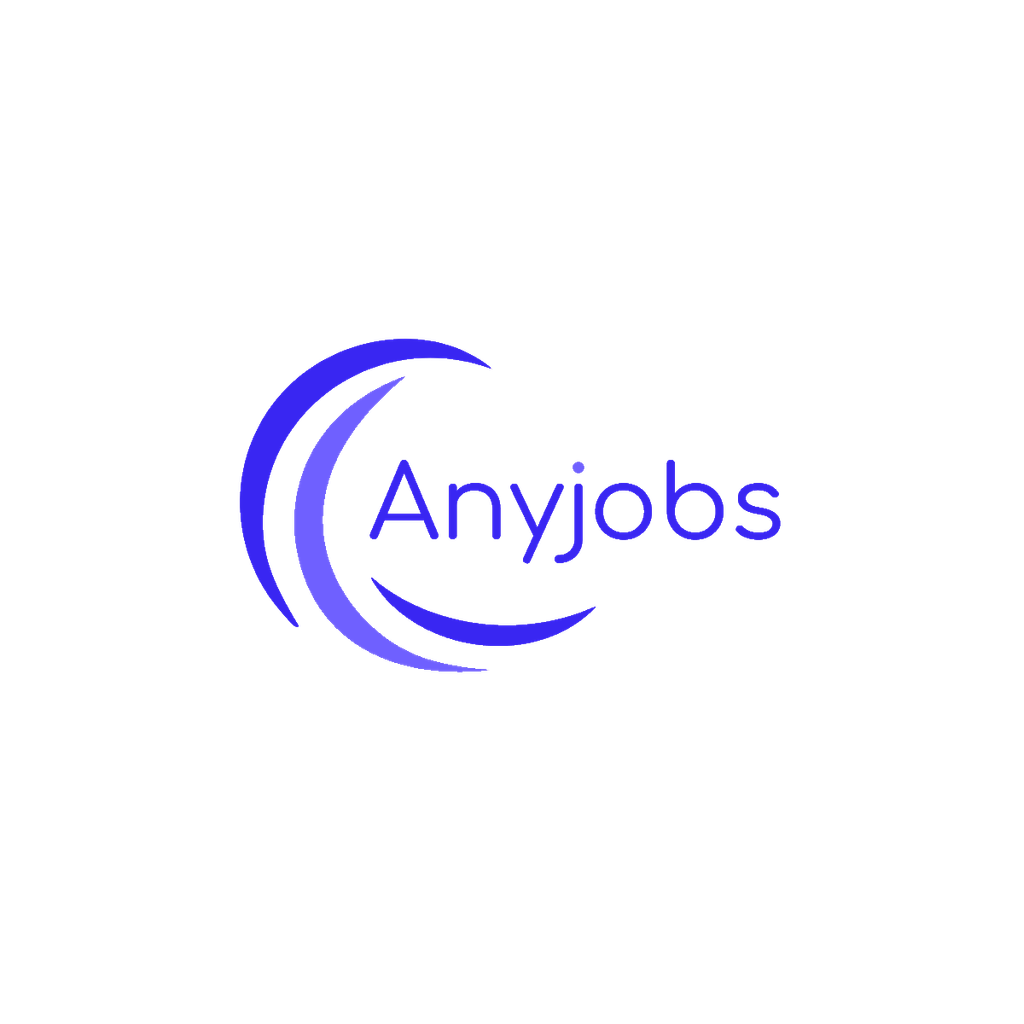
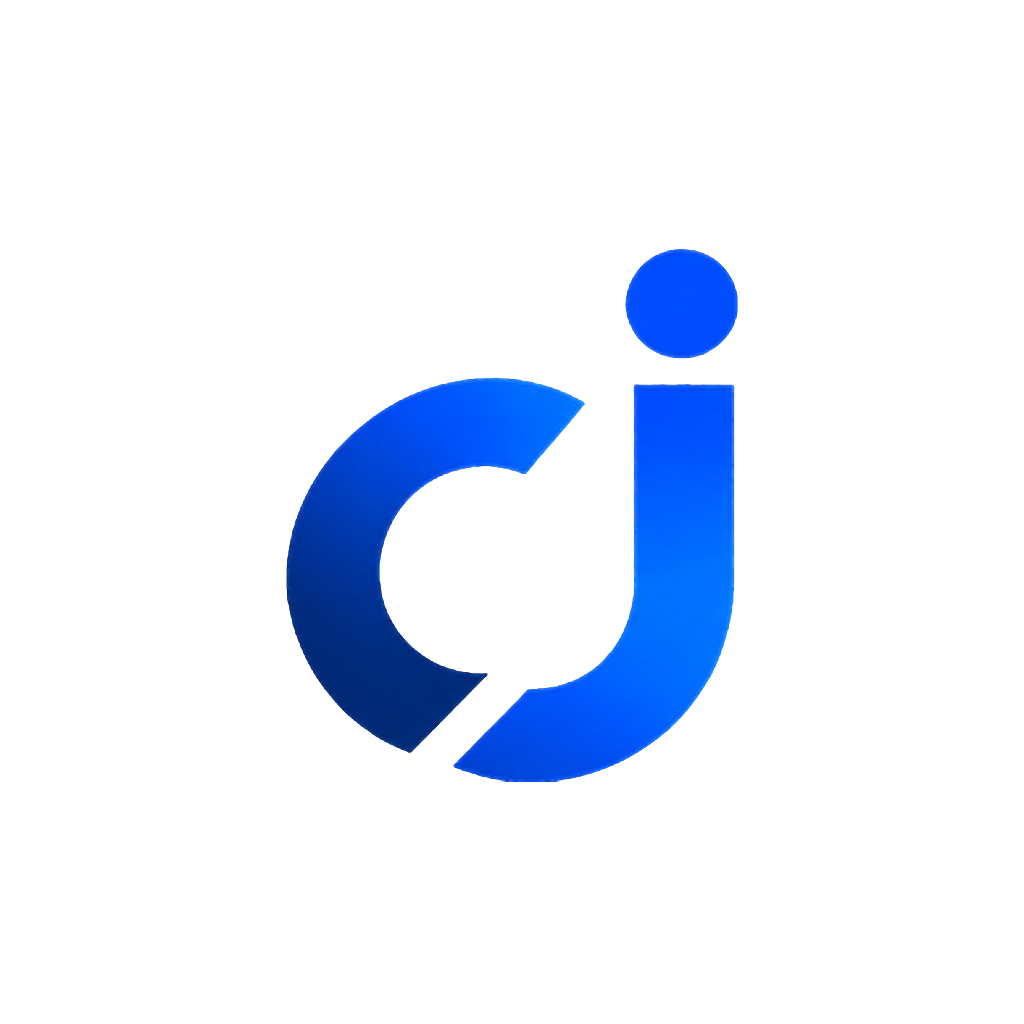
chore(brand): rename the app from AnyJobs to ContinentJobs
App name, slug, scheme, bundle id and Android package are now
continentjobs / com.continentjobs.mobile, with new icons and splash.
API and legal URLs move to the continentjobs.com hosts, and the
storage keys are renamed, so existing installs sign in again.

The EAS projectId still points at the old anyjobs project and must be
relinked before the next eas build.

Changed region(s): [[0.2188, 0.2188, 0.7812, 0.7812]]

diff --git a/src/constants/config.ts b/src/constants/config.ts
@@ -3,18 +3,18 @@ import Constants from "expo-constants";
 // Resolve API base URL with this precedence:
 //   1. EXPO_PUBLIC_API_URL (injected by EAS profile env in eas.json) — used for
 //      preview/production APKs to point at the right backend per build profile.
-//   2. Dev fallback to https://dev.any-jobs.com (same default used in Expo Go).
-//   3. Prod fallback to https://api.any-jobs.com when bundled as a release without env.
+//   2. Dev fallback to https://dev.continentjobs.com (same default used in Expo Go).
+//   3. Prod fallback to https://api.continentjobs.com when bundled as a release without env.
 const ENV_API_URL = process.env.EXPO_PUBLIC_API_URL;
 
 const FALLBACK_API_URL = __DEV__
-  ? "https://dev.any-jobs.com/api"
-  : "https://api.any-jobs.com/api";
+  ? "https://dev.continentjobs.com/api"
+  : "https://api.continentjobs.com/api";
 
 const API_URL = ENV_API_URL ?? FALLBACK_API_URL;
 
 // Public marketing/legal site (separate from the API host).
-const WEB_URL = "https://any-jobs.com";
+const WEB_URL = "https://continentjobs.com";
 
 export const config = {
   API_BASE_URL: API_URL,
@@ -22,11 +22,11 @@ export const config = {
   API_PUBLIC_URL: `${API_URL}/v1`,
   API_HOST: null,
   APP_VERSION: Constants.expoConfig?.version ?? "1.0.0",
-  APP_NAME: "AnyJobs",
-  TOKEN_KEY: "anyjobs_auth_token",
-  USER_KEY: "anyjobs_user",
+  APP_NAME: "ContinentJobs",
+  TOKEN_KEY: "continentjobs_auth_token",
+  USER_KEY: "continentjobs_user",
   // Persisted flag: user has accepted AI processing (App Store Guideline 5.1.2).
-  AI_CONSENT_KEY: "anyjobs_ai_consent_v1",
+  AI_CONSENT_KEY: "continentjobs_ai_consent_v1",
 
   // Name of the AI vendor we disclose to users in the consent screen.
   AI_PROVIDER: "Anthropic (Claude)",
@@ -35,5 +35,5 @@ export const config = {
   PRIVACY_POLICY_URL: `${WEB_URL}/privacy-policy`,
   TERMS_URL: `${WEB_URL}/terms`,
   HELP_URL: `${WEB_URL}/help`,
-  SUPPORT_EMAIL: "support@any-jobs.com",
+  SUPPORT_EMAIL: "support@continentjobs.com",
 } as const;

diff --git a/app/(auth)/welcome.tsx b/app/(auth)/welcome.tsx
@@ -53,7 +53,7 @@ export default function WelcomeScreen() {
       <Animated.View entering={FadeInDown.duration(600).delay(100)} style={s.headerWrap}>
         <View style={s.headerInner}>
           <Image
-            source={require("../../assets/anyjobs-logo.png")}
+            source={require("../../assets/continentjobs-logo.png")}
             style={s.logo}
             resizeMode="contain"
           />
@@ -170,8 +170,8 @@ const s = StyleSheet.create({
     alignItems: "center",
   },
   logo: {
-    width: 140,
-    height: 52,
+    width: 160,
+    height: 90,
     alignSelf: "center",
   },
   searchCard: {

diff --git a/src/lib/googleSignIn.ts b/src/lib/googleSignIn.ts
@@ -11,7 +11,7 @@ import { Platform } from "react-native";
 // Mobile\AuthController::google), so no extra backend config is needed.
 //
 // Platform setup (Google Cloud console, same project as the web client):
-// - Android: create an "Android" OAuth client with package com.anyjobs.mobile
+// - Android: create an "Android" OAuth client with package com.continentjobs.mobile
 //   and the EAS build signing SHA-1. No app config needed beyond that.
 // - iOS: create an "iOS" OAuth client, then set EXPO_PUBLIC_GOOGLE_IOS_CLIENT_ID
 //   and add the plugin to app.json:

diff --git a/src/components/ai/AiConsentModal.tsx b/src/components/ai/AiConsentModal.tsx
@@ -64,7 +64,7 @@ export function AiConsentModal({
             </Text>
 
             <Text className="mt-3 text-base leading-6 text-ink-muted">
-              AnyJobs uses {config.AI_PROVIDER} to power features like job
+              ContinentJobs uses {config.AI_PROVIDER} to power features like job
               description generation, CV/resume analysis, cover-letter drafting
               and candidate–job matching.
             </Text>

diff --git a/app/(public)/job/[id].tsx b/app/(public)/job/[id].tsx
@@ -28,7 +28,7 @@ export default function PublicJobDetailScreen() {
   const handleShare = async () => {
     if (!job) return;
     await Share.share({
-      message: `Check out this job: ${job.title} at ${job.company.name}\nhttps://anyjobs.com/jobs/${job.id}`,
+      message: `Check out this job: ${job.title} at ${job.company.name}\nhttps://continentjobs.com/jobs/${job.id}`,
     });
   };
 

diff --git a/src/lib/pushNotifications.ts b/src/lib/pushNotifications.ts
@@ -5,7 +5,7 @@ import * as Notifications from "expo-notifications";
 import apiClient from "../api/client";
 import { storage } from "./storage";
 
-const STORED_TOKEN_KEY = "anyjobs_push_token";
+const STORED_TOKEN_KEY = "continentjobs_push_token";
 
 // Expo Go on Android dropped remote-push support in SDK 53+. Only a
 // development build / standalone APK can get a real push token there.

diff --git a/app/(candidate)/job/[id].tsx b/app/(candidate)/job/[id].tsx
@@ -26,7 +26,7 @@ export default function JobDetailScreen() {
   const handleShare = async () => {
     if (!job) return;
     await Share.share({
-      message: `Check out this job: ${job.title} at ${job.company.name}\nhttps://anyjobs.com/jobs/${job.id}`,
+      message: `Check out this job: ${job.title} at ${job.company.name}\nhttps://continentjobs.com/jobs/${job.id}`,
     });
   };
 

diff --git a/src/lib/openExternal.ts b/src/lib/openExternal.ts
@@ -21,7 +21,7 @@ export async function openExternalUrl(url: string): Promise<void> {
 /** Open the user's mail composer to a support address. */
 export async function openSupportEmail(
   email: string,
-  subject = "AnyJobs support",
+  subject = "ContinentJobs support",
 ): Promise<void> {
   const url = `mailto:${email}?subject=${encodeURIComponent(subject)}`;
   try {

diff --git a/app/(employer)/settings.tsx b/app/(employer)/settings.tsx
@@ -99,7 +99,7 @@ export default function EmployerSettingsScreen() {
           icon="chatbox-outline"
           title="Send Feedback"
           onPress={() =>
-            openSupportEmail(config.SUPPORT_EMAIL, "AnyJobs app feedback")
+            openSupportEmail(config.SUPPORT_EMAIL, "ContinentJobs app feedback")
           }
         />
         <SettingsRow

diff --git a/app/(candidate)/settings.tsx b/app/(candidate)/settings.tsx
@@ -186,7 +186,7 @@ export default function SettingsScreen() {
           icon="chatbox-outline"
           title="Send Feedback"
           onPress={() =>
-            openSupportEmail(config.SUPPORT_EMAIL, "AnyJobs app feedback")
+            openSupportEmail(config.SUPPORT_EMAIL, "ContinentJobs app feedback")
           }
         />
         <SettingsRow

diff --git a/src/constants/jobOptions.ts b/src/constants/jobOptions.ts
@@ -53,7 +53,7 @@ export const SALARY_TYPES: Option[] = [
 ];
 
 export const APPLICATION_METHODS: Option[] = [
-  { value: "internal", label: "Through AnyJobs" },
+  { value: "internal", label: "Through ContinentJobs" },
   { value: "external", label: "External URL" },
   { value: "email", label: "Email" },
 ];

diff --git a/app/(auth)/register.tsx b/app/(auth)/register.tsx
@@ -148,7 +148,7 @@ export default function RegisterScreen() {
           Create Account
         </Text>
         <Text className="mt-1 text-base text-ink-soft">
-          Join AnyJobs today
+          Join ContinentJobs today
         </Text>
 
         {/* Error message */}
